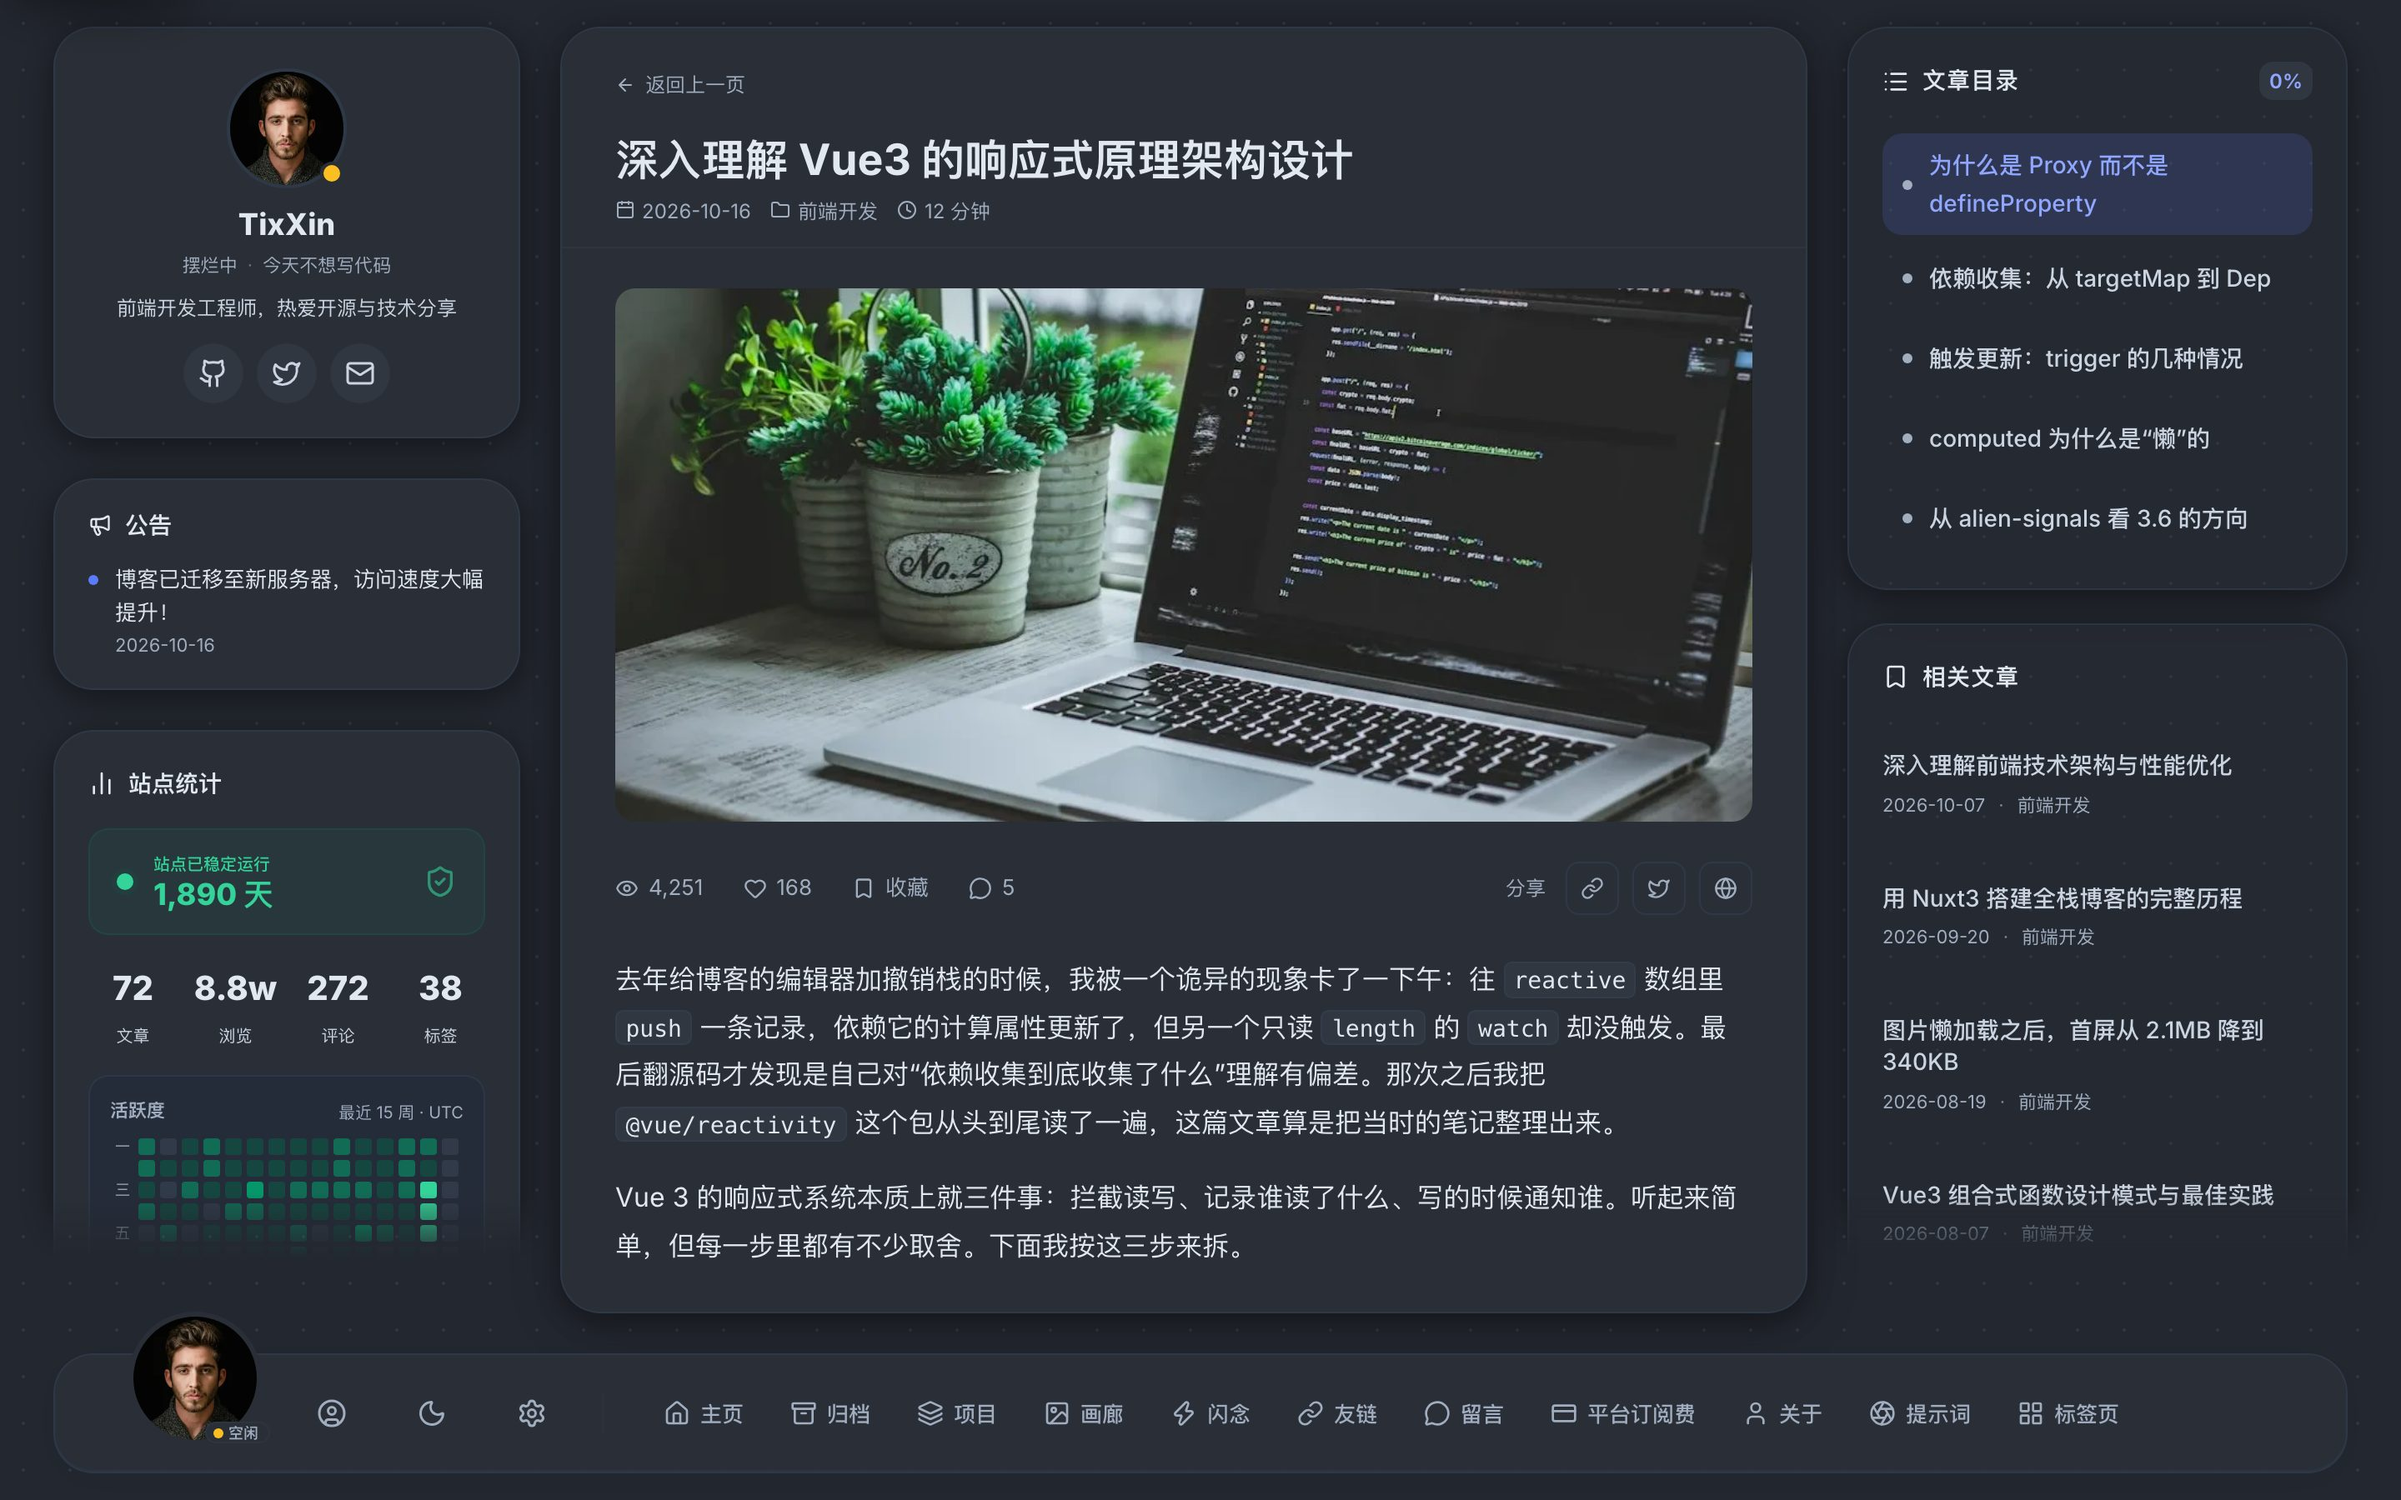
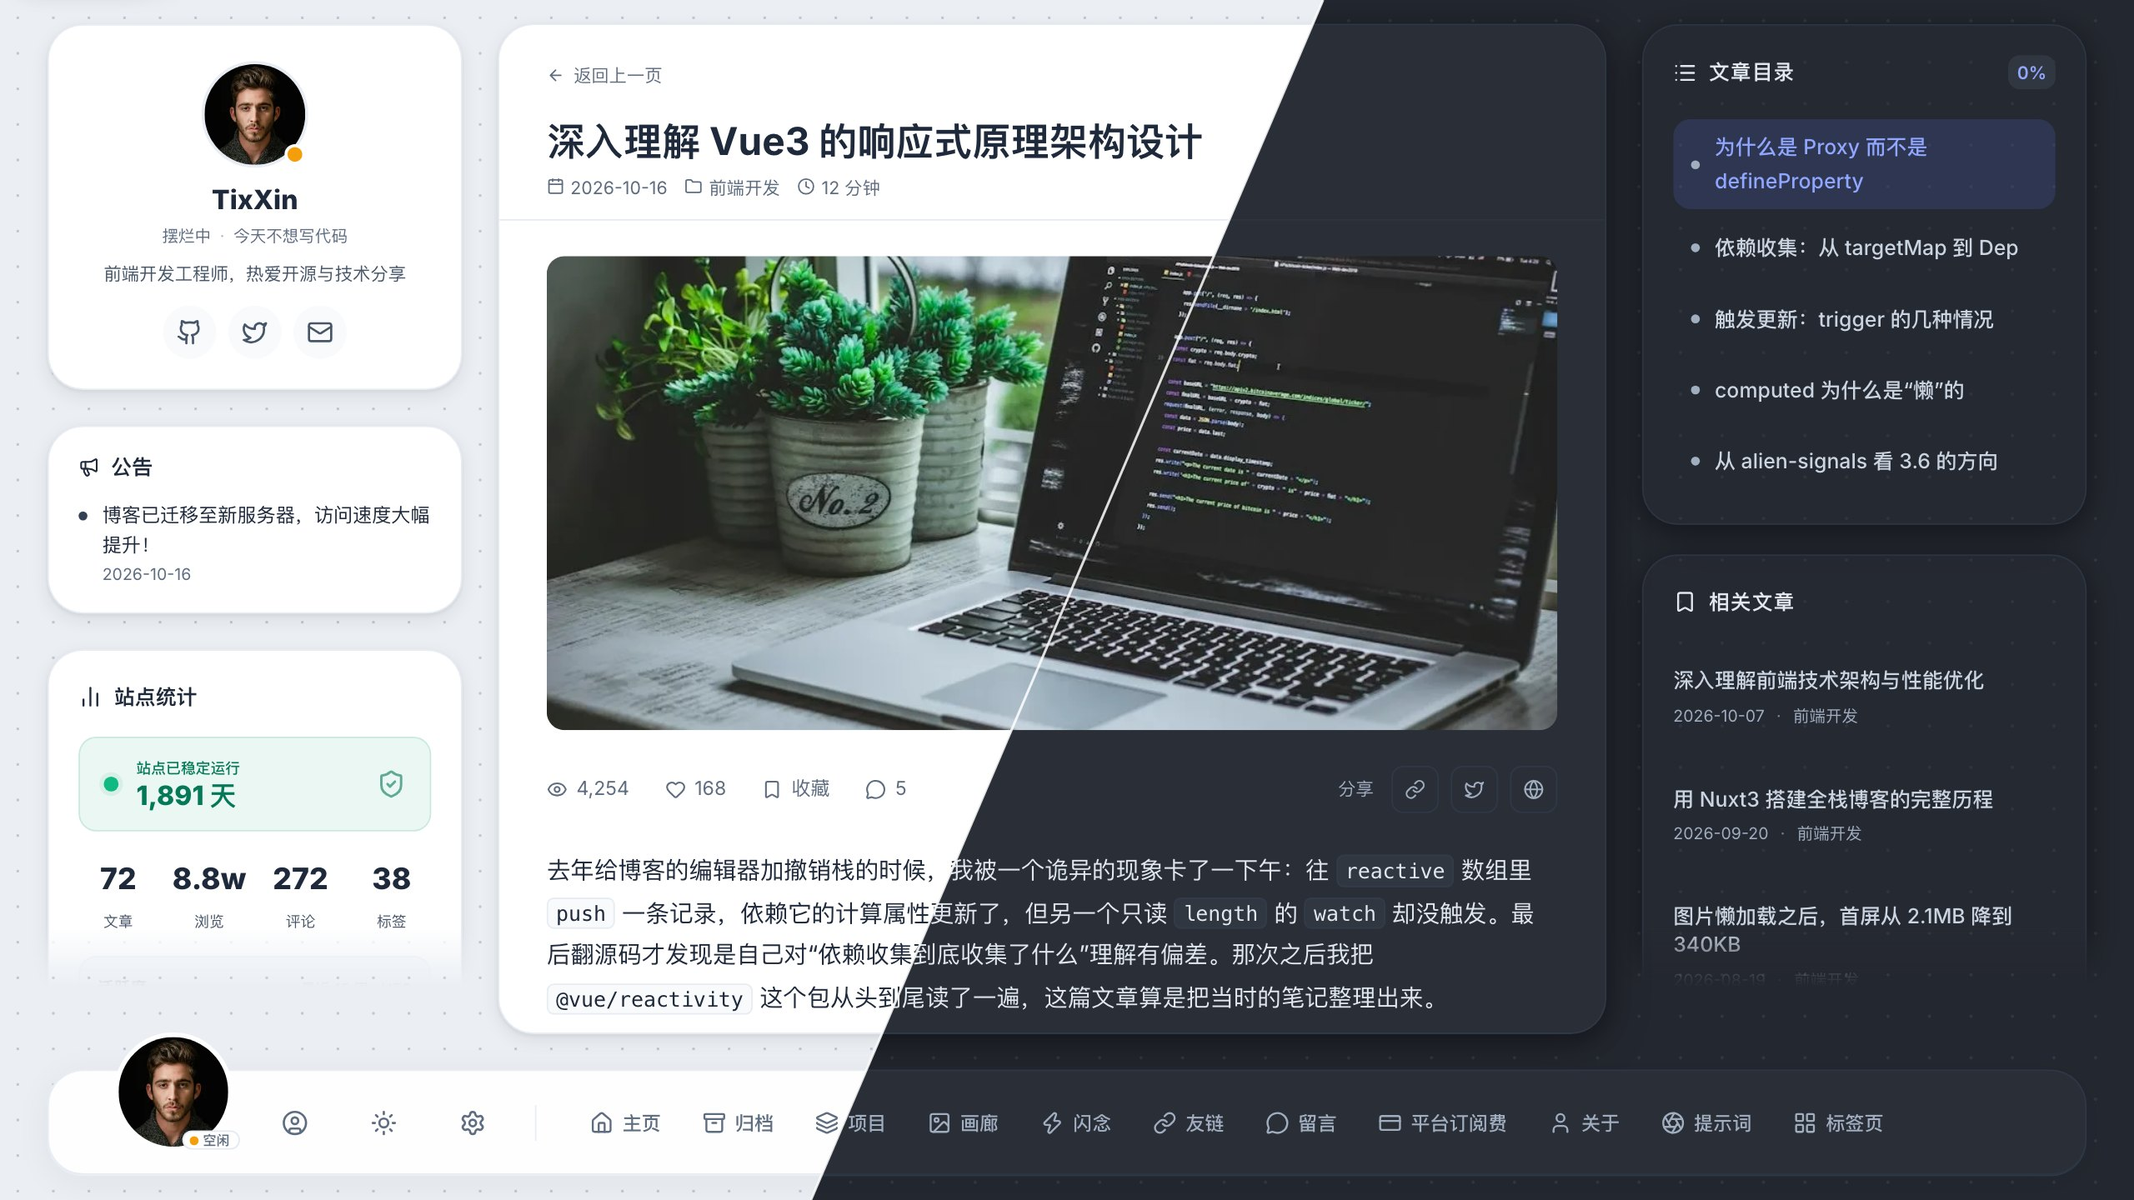
fix(ui): 日期选择器在按内容定宽的筛选栏中不再缩成只剩日历按钮
上一次修复把输入框宽度设为 0，窄列不再溢出，但评论、审计、留言等筛选栏按内容
定宽，日期输入的首选宽度也随之变成 0，只剩日历按钮可见。改为百分比宽度：最小
内容宽度按 0 计，首选宽度仍取输入框默认宽度。补充筛选栏宽度的端到端断言。

diff --git a/src/frontend/web-blog/tests/e2e/admin-workspace.spec.ts b/src/frontend/web-blog/tests/e2e/admin-workspace.spec.ts
@@ -122,6 +122,16 @@ for (const width of [320, 390, 760, 761]) {
   })
 }
 
+test('日期筛选在按内容定宽的工具栏中保持默认宽度，可直接输入日期', async ({ page }) => {
+  await page.setViewportSize({ width: 1440, height: 900 })
+  await page.goto('/admin/comments')
+  const start = page.getByRole('combobox', { name: /开始日期/ })
+  await expect(start).toBeVisible()
+  // 输入框只在窄列中收缩；工具栏里不能缩成只剩日历按钮
+  expect((await start.boundingBox())!.width).toBeGreaterThan(120)
+  await noOverflow(page)
+})
+
 test('图库列表保留筛选页码和返回位置，编辑页所属模块清晰', async ({ page }) => {
   await page.goto('/admin/gallery?page=2&status=published')
   await expect(page.getByRole('link', { name: '编辑作品', exact: true }).first()).toBeVisible()

diff --git a/src/frontend/web-blog/app/components/common/DatePicker.vue b/src/frontend/web-blog/app/components/common/DatePicker.vue
@@ -239,10 +239,11 @@ onBeforeUnmount(() => document.removeEventListener('pointerdown', onPointerDown)
     opacity: 0.6;
   }
 }
-// 输入框默认按 size=20 计入最小内容宽度，窄列（并排字段）会被撑出横向滚动；改为由弹性布局分配宽度
+// 百分比宽度让输入框的最小内容宽度按 0 计（窄列并排字段不被撑出横向滚动），
+// 首选宽度仍取默认宽度（筛选栏等按内容定宽的位置不会缩成只剩按钮）
 .date-picker__input {
-  flex: 1 1 0;
-  width: 0;
+  flex: 1 1 auto;
+  width: 100%;
   min-width: 0;
   padding: 0.5rem 0;
   border: 0;
